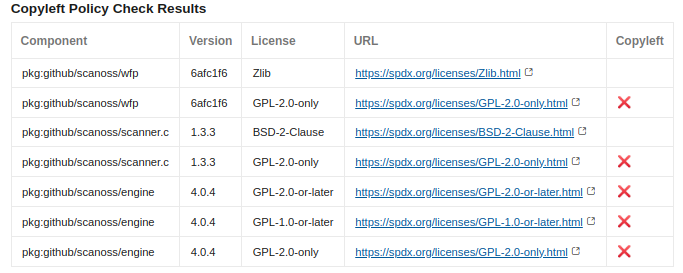
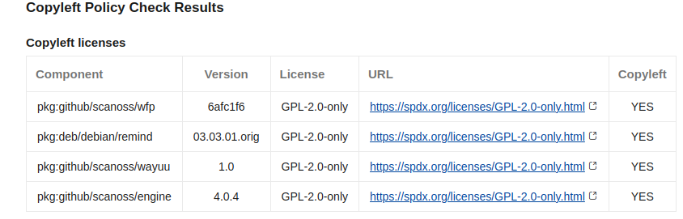
feat:SP-1510 Adds copyleft configurable input options

diff --git a/codescantask/services/result.service.ts b/codescantask/services/result.service.ts
@@ -22,6 +22,7 @@
  */
 
 import { ComponentID, DependencyComponent, ScannerComponent, ScannerResults } from './result.interface';
+import { licenseUtil } from '../utils/license.utils';
 
 //TODO: Move all functions to a class named ResultService that produces an object { licenses: []; compoments: []; dependencies: []; vulns: [];}
 
@@ -57,8 +58,8 @@ export function getComponents(results: ScannerResults): Component[] {
                     version: (c as ScannerComponent).version,
                     licenses: (c as ScannerComponent).licenses.map((l: any) => ({
                         spdxid: l.name,
-                        copyleft: !l.copyleft ? null : l.copyleft === 'yes' ? true : false,
-                        url: l?.url ? l.url : null,
+                        copyleft: licenseUtil.isCopyLeft(l.name?.trim().toLowerCase()),
+                        url: l?.url ? l.url : licenseUtil.getOSADL(l?.name),
                         count: 1
                     }))
                 });
@@ -71,7 +72,12 @@ export function getComponents(results: ScannerResults): Component[] {
                         purl: d.purl,
                         version: d.version,
                         licenses: d.licenses
-                            .map((l: any)=> ({ spdxid: l.spdx_id, copyleft: null, url: null, count: 1 }))
+                            .map((l: any)=> ({
+                                spdxid: l.spdx_id,
+                                copyleft: licenseUtil.isCopyLeft(l.spdx_id?.trim().toLowerCase()),
+                                url: licenseUtil.getOSADL(l?.spdx_id),
+                                count: 1
+                            }))
                             .filter((l:any)=> l.spdxid)
                     });
                 }
@@ -122,8 +128,8 @@ export function getLicenses(results: ScannerResults): License[] {
                 for (const l of (c as ScannerComponent).licenses) {
                     licenses.push({
                         spdxid: l.name,
-                        copyleft: !l.copyleft ? null : l.copyleft === 'yes' ? true : false,
-                        url: l?.url ? l.url : null,
+                        copyleft: licenseUtil.isCopyLeft(l.name.trim().toLowerCase()),
+                        url: licenseUtil.getOSADL(l?.name),
                         count: 1
                     });
                 }
@@ -134,7 +140,7 @@ export function getLicenses(results: ScannerResults): License[] {
                 for (const d of dependencies) {
                     for (const l of d.licenses) {
                         if (!l.spdx_id) continue;
-                        licenses.push({ spdxid: l.spdx_id, copyleft: null, url: null, count: 1 });
+                        licenses.push({ spdxid: l.spdx_id, copyleft: licenseUtil.isCopyLeft(l.spdx_id?.trim().toLowerCase()), url: licenseUtil.getOSADL(l?.spdx_id), count: 1 });
                     }
                 }
             }

diff --git a/codescantask/utils/license.utils.ts b/codescantask/utils/license.utils.ts
@@ -1,0 +1,71 @@
+import * as inputs from '../app.input';
+import * as tl from 'azure-pipelines-task-lib';
+
+export class LicenseUtil {
+    private BASE_OSADL_URL = 'https://spdx.org/licenses';
+    private HTML = 'html';
+    constructor() {
+        this.init();
+    }
+
+    private defaultCopyleftLicenses = new Set<string>(
+        [
+            'GPL-1.0-only',
+            'GPL-2.0-only',
+            'GPL-3.0-only',
+            'AGPL-3.0-only',
+            'Sleepycat',
+            'Watcom-1.0',
+            'GFDL-1.1-only',
+            'GFDL-1.2-only',
+            'GFDL-1.3-only',
+            'LGPL-2.1-only',
+            'LGPL-3.0-only',
+            'MPL-1.1',
+            'MPL-2.0',
+            'EPL-1.0',
+            'EPL-2.0',
+            'CDDL-1.0',
+            'CDDL-1.1',
+            'CECILL-2.1',
+            'Artistic-1.0',
+            'Artistic-2.0',
+            'CC-BY-SA-4.0'
+        ].map(l => l.toLowerCase())
+    );
+
+    private copyLeftLicenses = new Set<string>();
+
+    private init(): void {
+        if (inputs.COPYLEFT_LICENSE_EXPLICIT) {
+            const explicitCopyleftLicenses = inputs.COPYLEFT_LICENSE_EXPLICIT.split(',').map(pn => pn.trim().toLowerCase());
+            tl.debug(`Explicit licenses: ${explicitCopyleftLicenses}`);
+            this.copyLeftLicenses = new Set<string>(explicitCopyleftLicenses);
+            return;
+        }
+
+        tl.debug(`Explicit licenses not defined, setting default licenses...`);
+        this.copyLeftLicenses = this.defaultCopyleftLicenses;
+
+        if (inputs.COPYLEFT_LICENSE_INCLUDE) {
+            const includedCopyleftLicenses = inputs.COPYLEFT_LICENSE_INCLUDE.split(',').map(pn => pn.trim());
+            tl.debug(`Included copyleft licenses: ${includedCopyleftLicenses}`);
+            includedCopyleftLicenses.forEach(l => this.copyLeftLicenses.add(l.toLowerCase()));
+        }
+
+        if (inputs.COPYLEFT_LICENSE_EXCLUDE) {
+            const excludedCopyleftLicenses = inputs.COPYLEFT_LICENSE_EXCLUDE.split(',').map(pn => pn.trim());
+            tl.debug(`Excluded copyleft licenses: ${excludedCopyleftLicenses}`);
+            excludedCopyleftLicenses.forEach(l => this.copyLeftLicenses.delete(l.toLowerCase()));
+        }
+    }
+
+    isCopyLeft(spdxid: string): boolean {
+        return this.copyLeftLicenses.has(spdxid);
+    }
+
+    getOSADL(spdxid: string): string {
+        return `${this.BASE_OSADL_URL}/${spdxid}.${this.HTML}`;
+    }
+}
+export const licenseUtil = new LicenseUtil();

diff --git a/codescantask/policies/copyleft-policy-check.ts b/codescantask/policies/copyleft-policy-check.ts
@@ -25,6 +25,7 @@ import { Component, getComponents } from '../services/result.service';
 import { generateTable } from '../utils/markdown.utils';
 import { ScannerResults } from '../services/result.interface';
 import { PolicyCheck } from './policy-check';
+import { licenseUtil } from '../utils/license.utils';
 
 /**
  * This class checks if any of the components identified in the scanner results are subject to copyleft licenses.
@@ -42,7 +43,9 @@ export class CopyleftPolicyCheck extends PolicyCheck {
 
         // Filter copyleft components
         const componentsWithCopyleft = components.filter(component =>
-            component.licenses.some(license => !!license.copyleft)
+            component.licenses.some(
+                license => !!license.copyleft || licenseUtil.isCopyLeft(license.spdxid.trim().toLowerCase())
+            )
         );
 
         const summary = this.getSummary(componentsWithCopyleft);
@@ -70,11 +73,18 @@ export class CopyleftPolicyCheck extends PolicyCheck {
 
         components.forEach(component => {
             component.licenses.forEach(license => {
-                const copyleftIcon = license.copyleft ? 'YES' : 'NO';
-                rows.push([component.purl, component.version, license.spdxid, `${license.url || ''}`, copyleftIcon]);
+                if (licenseUtil.isCopyLeft(license.spdxid?.trim().toLowerCase())) {
+                    const copyleftIcon = licenseUtil.isCopyLeft(license.spdxid?.trim().toLowerCase()) ? 'YES' : 'NO';
+                    rows.push([
+                        component.purl,
+                        component.version,
+                        license.spdxid,
+                        `${licenseUtil.getOSADL(license?.spdxid) || ''}`,
+                        copyleftIcon
+                    ]);
+                }
             });
         });
-
-        return generateTable(headers, rows, centeredColumns);
+        return `### Copyleft licenses \n ${generateTable(headers, rows, centeredColumns)}`;
     }
 }

diff --git a/codescantask/app.input.ts b/codescantask/app.input.ts
@@ -23,6 +23,9 @@
 
 import tl = require('azure-pipelines-task-lib/task');
 export const DEPENDENCIES_ENABLED = tl.getInput('dependenciesEnabled') === 'true';
+export const COPYLEFT_LICENSE_INCLUDE = tl.getInput('LicensesCopyleftInclude');
+export const COPYLEFT_LICENSE_EXCLUDE = tl.getInput('LicensesCopyleftExclude');
+export const COPYLEFT_LICENSE_EXPLICIT = tl.getInput('LicensesCopyleftExplicit');
 export const API_KEY = tl.getInput('apiKey');
 export const API_URL = tl.getInput('apiUrl');
 export const OUTPUT_FILEPATH = tl.getInput('outputFilepath') || "results.json";

diff --git a/OVERVIEW.md b/OVERVIEW.md
@@ -67,18 +67,21 @@ If a proxy is required for internet access in your environment, the ***HTTP_PROX
 
 ### Action Input Parameters
 
-| **Parameter**  | **Description**                                                                    | **Required** | **Default**                            | 
-|----------------|------------------------------------------------------------------------------------|--------------|----------------------------------------|
-| outputFilepath | Scan output file name.                                                             | Optional     | `results.json`                         |
-| sbomEnabled    | Enable or disable scanning based on the SBOM file                                  | Optional     | `true`                                 |
-| sbomFilepath   | Filepath of the SBOM file to be used for scanning                                  | Optional     | `sbom.json`                            |
-| sbomType       | Type of SBOM operation: either 'identify' or 'ignore                               | Optional     | `identify`                             |
-| dependenciesEnabled | Option to enable or disable scanning of dependencies.                              | Optional     | `false`                                |
-| policies       | List of policies separated by commas, options available are: copyleft, undeclared. | Optional     | -                                      |
-| policiesHaltOnFailure | Halt check on policy failure. If set to false checks will not fail.                | Optional     | `true`                                 |
-| apiUrl         | SCANOSS API URL                                                                    | Optional     | `https://api.osskb.org/scan/direct` |
-| apiKey         | SCANOSS API Key                                                                    | Optional     | -                                      |
-| runtimeContainer               | Runtime URL                                                                        | Optional     | `ghcr.io/scanoss/scanoss-py:v1.9.0`                                     |
+| **Parameter**            | **Description**                                                                    | **Required** | **Default**                         | 
+|--------------------------|------------------------------------------------------------------------------------|--------------|-------------------------------------|
+| outputFilepath           | Scan output file name.                                                             | Optional     | `results.json`                      |
+| sbomEnabled              | Enable or disable scanning based on the SBOM file                                  | Optional     | `true`                              |
+| sbomFilepath             | Filepath of the SBOM file to be used for scanning                                  | Optional     | `sbom.json`                         |
+| sbomType                 | Type of SBOM operation: either 'identify' or 'ignore                               | Optional     | `identify`                          |
+| dependenciesEnabled      | Option to enable or disable scanning of dependencies.                              | Optional     | `false`                             |
+| policies                 | List of policies separated by commas, options available are: copyleft, undeclared. | Optional     | -                                   |
+| policiesHaltOnFailure    | Halt check on policy failure. If set to false checks will not fail.                | Optional     | `true`                              |
+| apiUrl                   | SCANOSS API URL                                                                    | Optional     | `https://api.osskb.org/scan/direct` |
+| apiKey                   | SCANOSS API Key                                                                    | Optional     | -                                   |
+| runtimeContainer         | Runtime URL                                                                        | Optional     | `ghcr.io/scanoss/scanoss-py:v1.9.0` |
+| licensesCopyleftInclude  | List of Copyleft licenses to append to the default list. Provide licenses as a comma-separated list. | Optional     | -                                   |
+| licensesCopyleftExclude  | List of Copyleft licenses to remove from default list. Provide licenses as a comma-separated list.   | Optional     | -                                   |
+| licensesCopyleftExplicit | Explicit list of Copyleft licenses to consider. Provide licenses as a comma-separated list.          | Optional     | -                                   |
 
 
 
